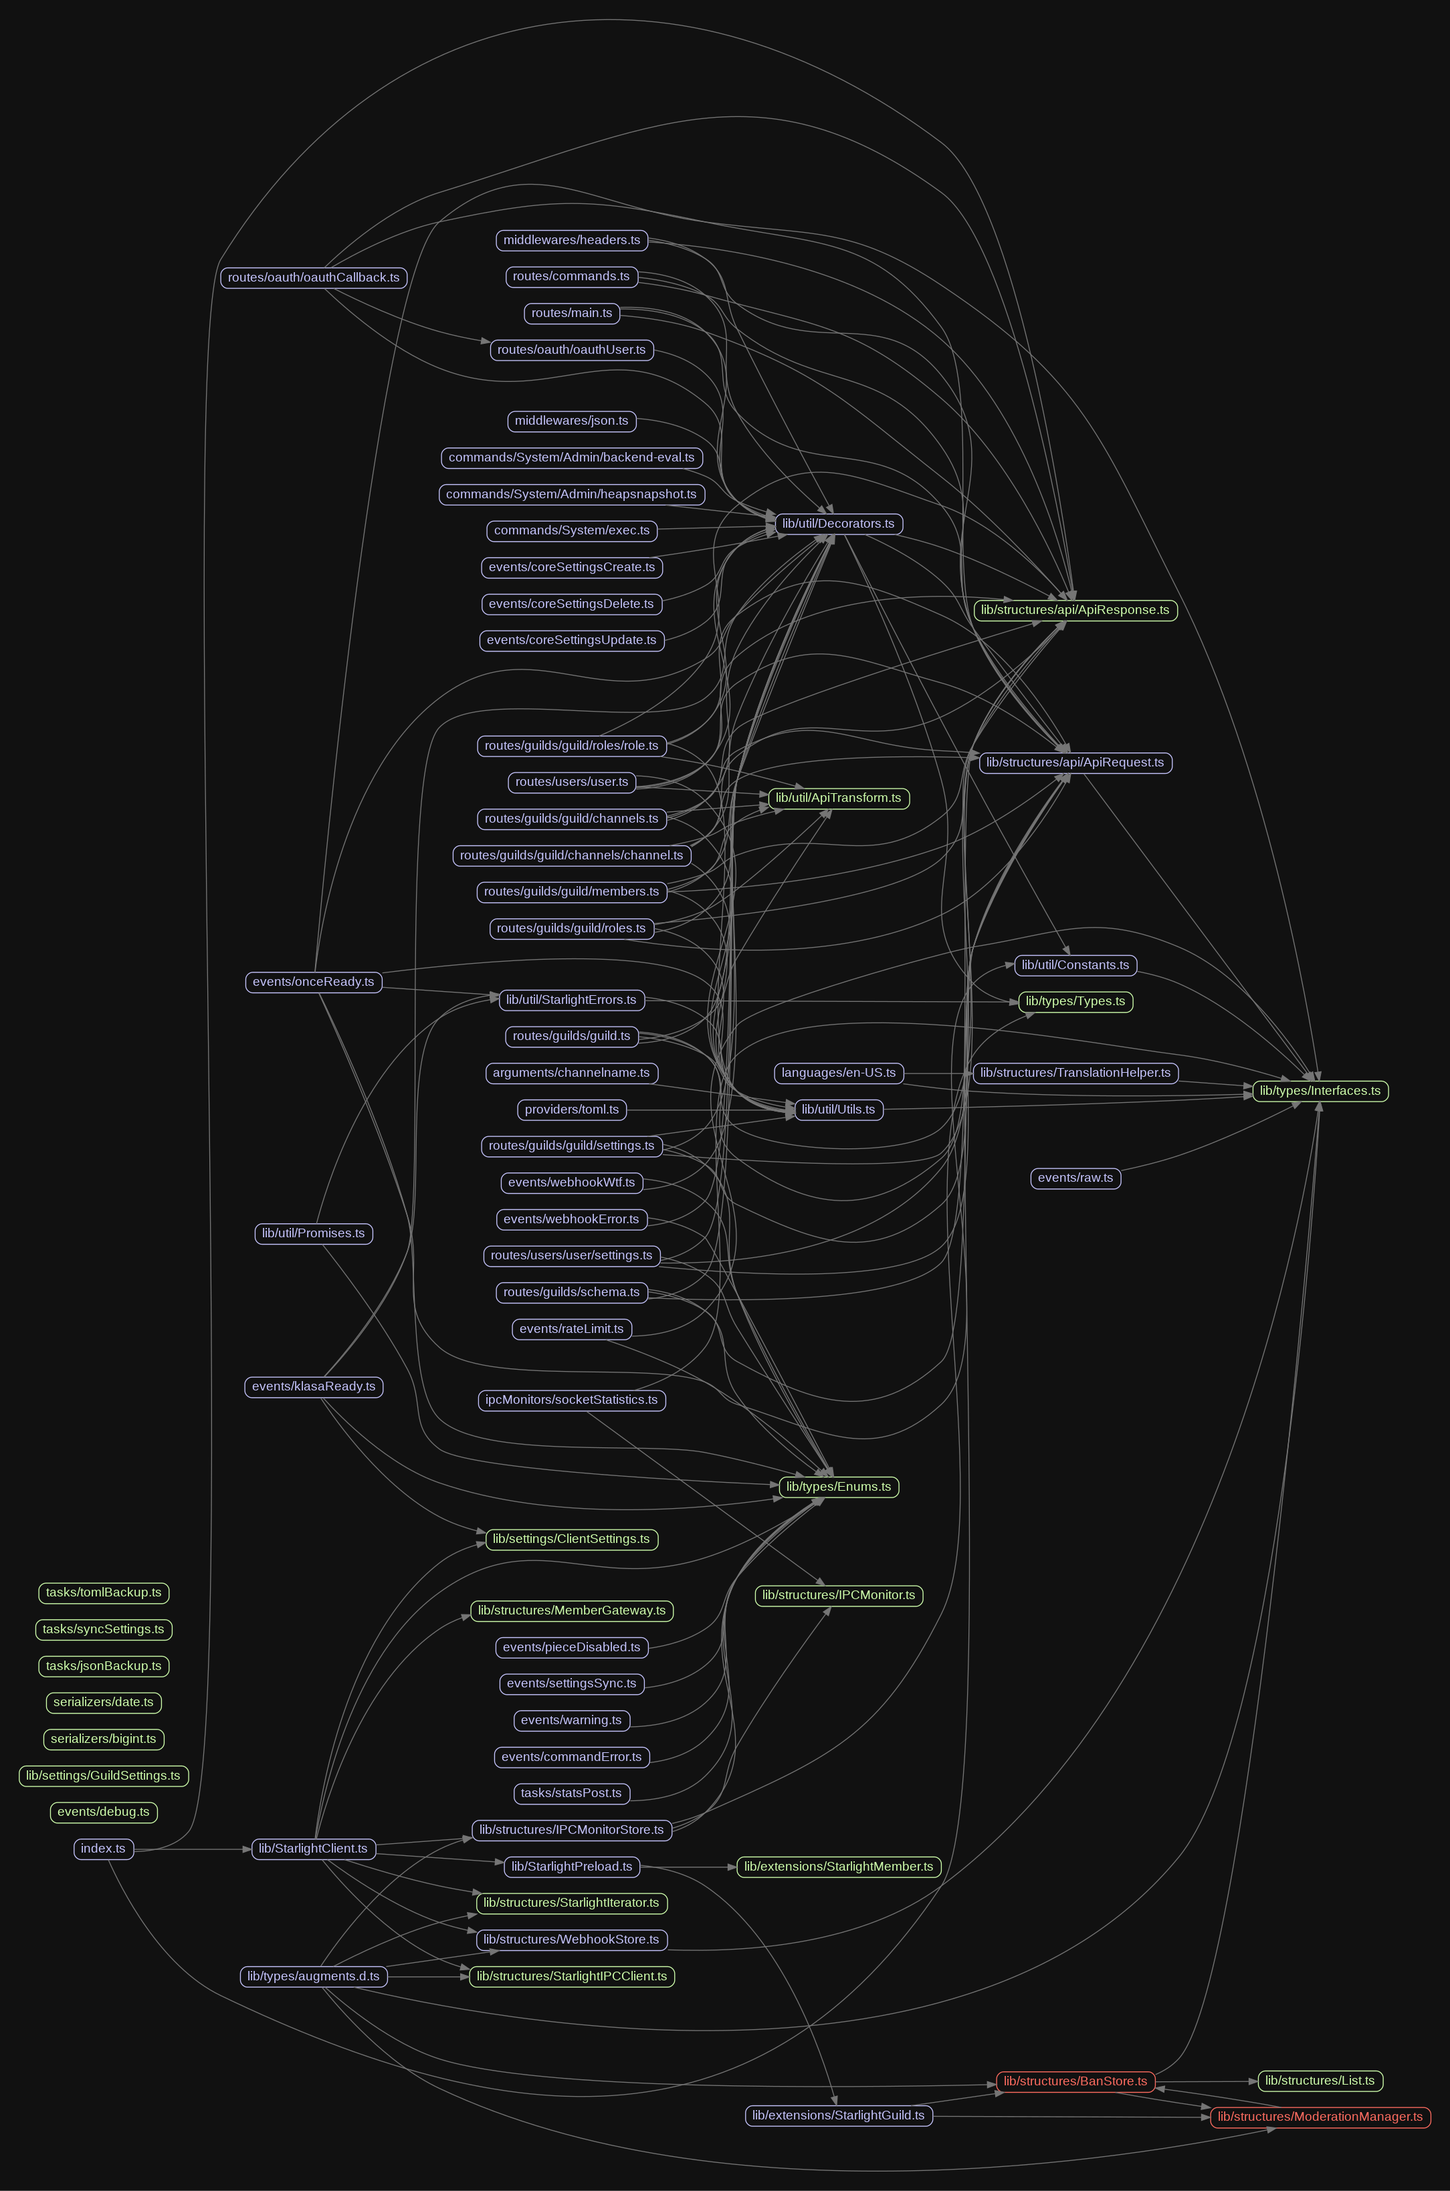
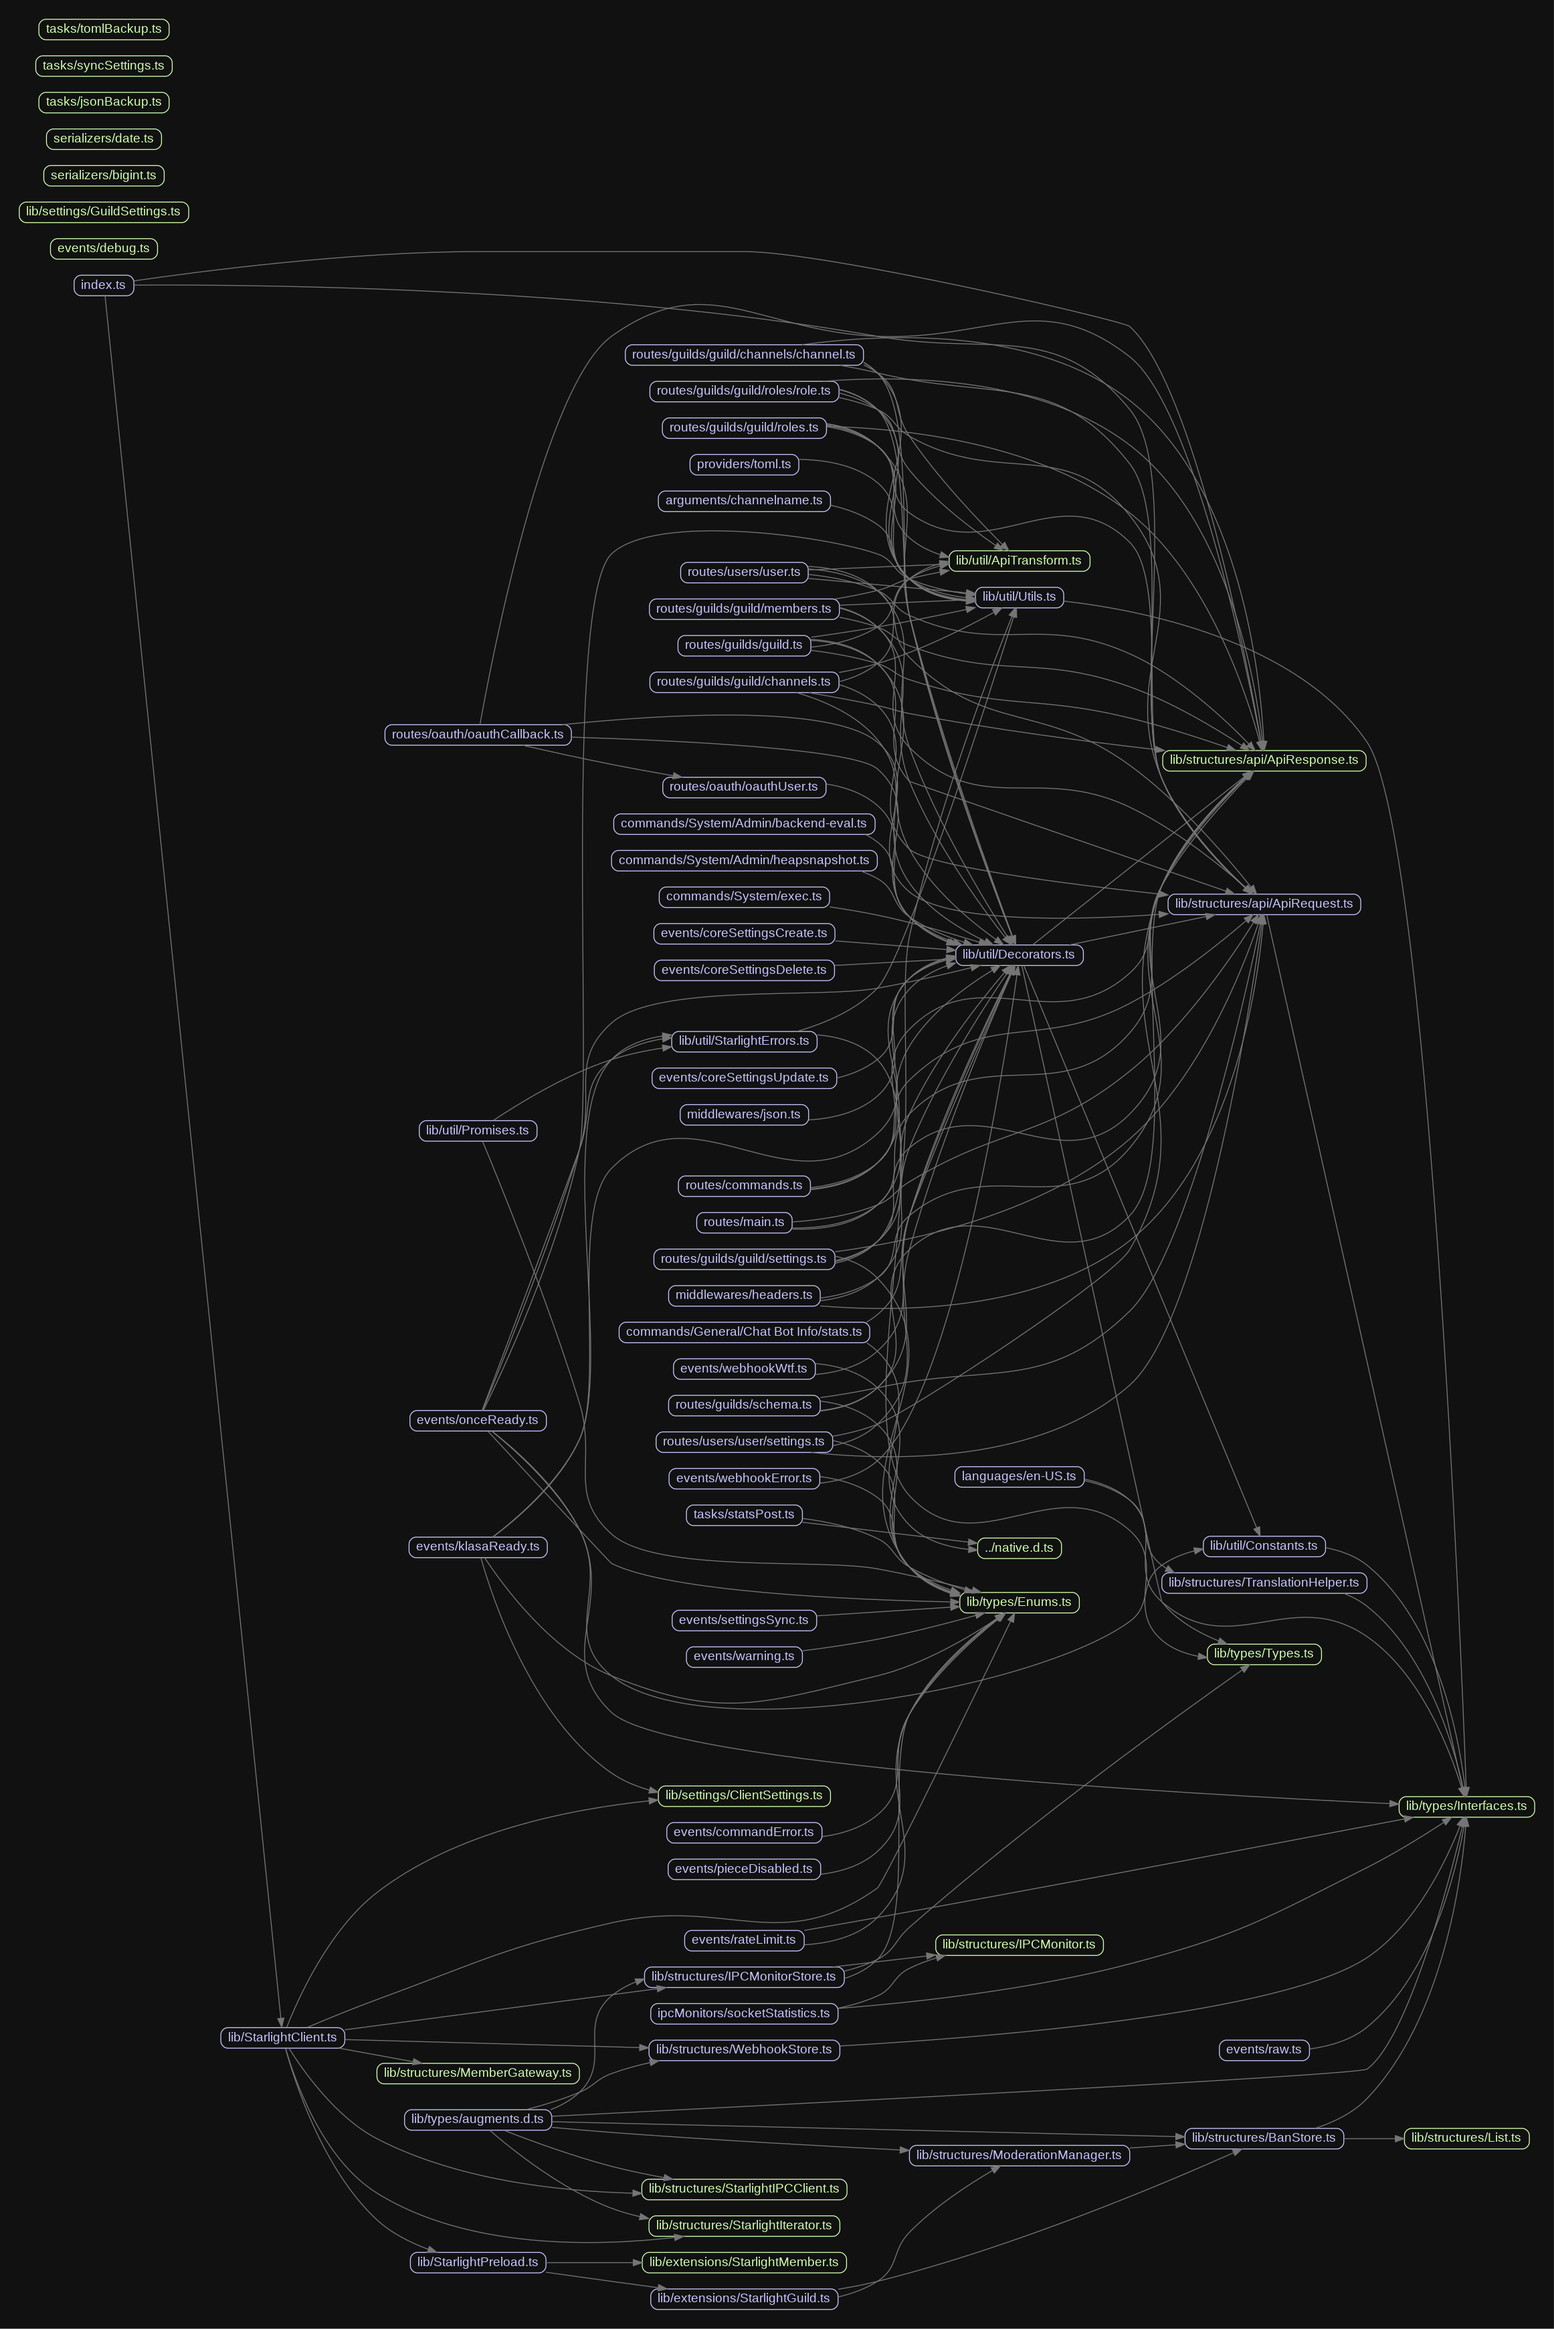
deps: redo graphs and fix: remove circular dep

diff --git a/src/commands/General/Chat Bot Info/stats.ts b/src/commands/General/Chat Bot Info/stats.ts
@@ -1,36 +1,37 @@
-import { Command, CommandOptions, version as klasaVersion, Duration, Language, KlasaMessage } from 'klasa'
-import { version as discordVersion } from 'discord.js'
-import { version } from '../../../../native'
+import { Command, CommandOptions, version as klasaVersion, Duration, Language, KlasaMessage } from 'klasa';
+import { version as discordVersion } from 'discord.js';
+import { version } from '../../../../native';
 import { ApplyOptions } from '../../../lib/util/Decorators';
 
 const neonVersion = version();
 
 @ApplyOptions<CommandOptions>({
-    guarded: true,
-    description: (lang: Language): string => lang.get('COMMAND_STATS_DESCRIPTION')
+	guarded: true,
+	description: (lang: Language): string => lang.get('COMMAND_STATS_DESCRIPTION')
 })
 export default class extends Command {
-    public async run(message: KlasaMessage): Promise<KlasaMessage> {
-        let [users, guilds, channels, memory] = [0, 0, 0, 0];
 
-        if (this.client.shard) {
-            const results = await this.client.shard.broadcastEval(`[this.users.size, this.guilds.size, this.channels.size, (process.memoryUsage().heapUsed / 1024 / 1024)]`);
+	public async run(message: KlasaMessage): Promise<KlasaMessage> {
+		let [users, guilds, channels, memory] = [0, 0, 0, 0];
 
-            for (const result of results) {
-                users += result[0];
-                guilds += result[1];
-                channels += result[2];
-                memory += result[3];
-            }
-        }
+		if (this.client.shard) {
+			const results = await this.client.shard.broadcastEval(`[this.users.size, this.guilds.size, this.channels.size, (process.memoryUsage().heapUsed / 1024 / 1024)]`);
 
-        return message.sendCode('asciidoc', message.language.get('COMMAND_STATS',
-            (memory || process.memoryUsage().heapUsed / 1024 / 1024).toFixed(2),
-            Duration.toNow(Date.now() - (process.uptime() * 1000)),
-            (users || this.client.users.size).toLocaleString(),
-            (guilds || this.client.guilds.size).toLocaleString(),
-            (channels || this.client.channels.size).toLocaleString(),
-            klasaVersion, discordVersion, process.version, neonVersion, message
-        ));
-    }
+			for (const result of results) {
+				users += result[0];
+				guilds += result[1];
+				channels += result[2];
+				memory += result[3];
+			}
+		}
+
+		return message.sendCode('asciidoc', message.language.get('COMMAND_STATS',
+			(memory || process.memoryUsage().heapUsed / 1024 / 1024).toFixed(2),
+			Duration.toNow(Date.now() - (process.uptime() * 1000)),
+			(users || this.client.users.size).toLocaleString(),
+			(guilds || this.client.guilds.size).toLocaleString(),
+			(channels || this.client.channels.size).toLocaleString(),
+			klasaVersion, discordVersion, process.version, neonVersion, message));
+	}
+
 }

diff --git a/src/languages/en-US.ts b/src/languages/en-US.ts
@@ -17,7 +17,7 @@ export default class extends Language {
 		].join(' '),
 		COMMAND_EXEC_AWAITING: 'Executing your command...',
 		COMMAND_EXEC_NO_OUTPUT: 'Done. There was no output to stdout or stderr.',
-		COMMAND_STATS: (memUsage: string, uptime: string, users: string, guilds: string, channels: string, klasaVersion: string, discordVersion: string,processVersion: string, neonVersion: string, message: KlasaMessage): string[] => [
+		COMMAND_STATS: (memUsage: string, uptime: string, users: string, guilds: string, channels: string, klasaVersion: string, discordVersion: string, processVersion: string, neonVersion: string, message: KlasaMessage): string[] => [
 			'= STATISTICS =',
 			'',
 			`• Mem Usage  :: ${memUsage} MB`,
@@ -34,8 +34,8 @@ export default class extends Language {
 		COMMAND_HEAPSNAPSHOT_CAPTURING: (used: string): string => `Capturing HEAP Snapshot, this may take a while. RAM Usage: ${used} MB`,
 		COMMAND_HEAPSNAPSHOT_CAPTURED: (path: string): string => `Captured in \`${path}\`, check! Remember, do NOT share this with anybody, it may contain a lot of sensitive data.`,
 		RESOLVER_NO_RESULTS: (name: string, type: string): string => `${name} Must be a valid name, ID, or ${this.helper.get(type)} mention`,
-		RESOLVER_MULTIPLE_RESULTS: (mapped: string): string => `Found multiple matches: \`${mapped}\``,
-		
+		RESOLVER_MULTIPLE_RESULTS: (mapped: string): string => `Found multiple matches: \`${mapped}\``
+
 	};
 
 	private helper: TranslationHelper = new TranslationHelper(this);

diff --git a/src/lib/structures/BanStore.ts b/src/lib/structures/BanStore.ts
@@ -1,23 +1,18 @@
-import { List } from './List';
+import { Client, Guild } from 'discord.js';
 import { BanInfo } from '../types/Interfaces';
-import { ModerationManager } from './ModerationManager';
-import { Guild, Client } from 'discord.js';
+import { List } from './List';
 
 export class BanStore extends List<BanInfo> {
 
-	public manager: ModerationManager;
-	public constructor(manager: ModerationManager) {
+	public guild: Guild;
+	public constructor(guild: Guild) {
 		super();
 
-		this.manager = manager;
-	}
-
-	public get guild(): Guild {
-		return this.manager.guild;
+		this.guild = guild;
 	}
 
 	public get client(): Client {
-		return this.manager.client;
+		return this.guild.client;
 	}
 
 	public async fetch(): Promise<this> {

diff --git a/src/tasks/statsPost.ts b/src/tasks/statsPost.ts
@@ -1,7 +1,7 @@
 import { MessageEmbed, version as discordVersion } from 'discord.js';
 import { Duration, Task, util, version as klasaVersion } from 'klasa';
 import { Events } from '../lib/types/Enums';
-import { version } from '../../native'
+import { version } from '../../native';
 
 export default class extends Task {
 

diff --git a/src/lib/structures/ModerationManager.ts b/src/lib/structures/ModerationManager.ts
@@ -5,7 +5,7 @@ export class ModerationManager {
 
 	public guild: Guild;
 
-	public bans: BanStore = new BanStore(this);
+	public bans: BanStore = new BanStore(this.guild);
 
 	public constructor(guild: Guild) {
 		this.guild = guild;
